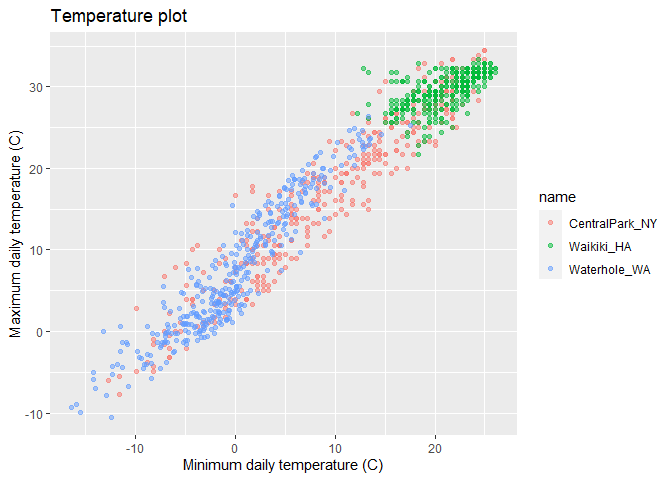
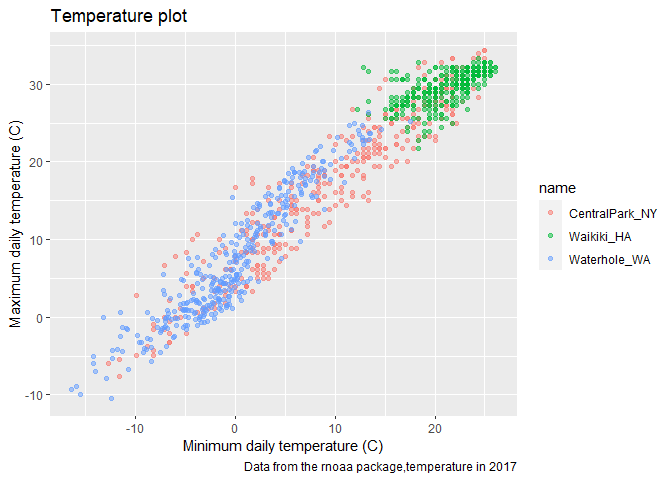
scales

diff --git a/viz_ii.md b/viz_ii.md
@@ -85,10 +85,81 @@ weather_df %>%
   labs(
     title="Temperature plot",
     x = "Minimum daily temperature (C)",
-    y = "Maximum daily temperature (C)"
+    y = "Maximum daily temperature (C)",
+    caption = "Data from the rnoaa package,temperature in 2017"
   )
 ```
 
     ## Warning: Removed 15 rows containing missing values (geom_point).
 
 ![](viz_ii_files/figure-gfm/unnamed-chunk-3-1.png)<!-- -->
+
+# Scales
+
+Start with the same plot; x and y scales
+
+``` r
+weather_df %>% 
+  ggplot(aes(x = tmin,y=tmax,color = name)) +
+  geom_point(alpha = .5)+
+  labs(
+    title="Temperature plot",
+    x = "Minimum daily temperature (C)",
+    y = "Maximum daily temperature (C)",
+    caption = "Data from the rnoaa package,temperature in 2017"
+  ) +
+  scale_x_continuous(
+    breaks = c(-15,0,15),
+    labels = c("-15 C","0","15 C")
+  ) +
+  scale_y_continuous(
+    position = "right"
+  )
+```
+
+    ## Warning: Removed 15 rows containing missing values (geom_point).
+
+![](viz_ii_files/figure-gfm/unnamed-chunk-4-1.png)<!-- -->
+
+Look at color scales
+
+``` r
+weather_df %>% 
+  ggplot(aes(x = tmin,y=tmax,color = name)) +
+  geom_point(alpha = .5)+
+  labs(
+    title="Temperature plot",
+    x = "Minimum daily temperature (C)",
+    y = "Maximum daily temperature (C)",
+    caption = "Data from the rnoaa package,temperature in 2017"
+  )+
+  scale_color_hue(
+    name = "Location",
+    h = c(100,300))
+```
+
+    ## Warning: Removed 15 rows containing missing values (geom_point).
+
+![](viz_ii_files/figure-gfm/unnamed-chunk-5-1.png)<!-- -->
+
+Another way to modify color scale
+
+``` r
+weather_df %>% 
+  ggplot(aes(x = tmin,y=tmax,color = name)) +
+  geom_point(alpha = .5)+
+  labs(
+    title="Temperature plot",
+    x = "Minimum daily temperature (C)",
+    y = "Maximum daily temperature (C)",
+    caption = "Data from the rnoaa package,temperature in 2017"
+  ) +
+  viridis::scale_color_viridis(
+    name = "Loctation",
+    discrete = TRUE
+  )
+```
+
+    ## Warning: Removed 15 rows containing missing values (geom_point).
+
+![](viz_ii_files/figure-gfm/unnamed-chunk-6-1.png)<!-- -->
